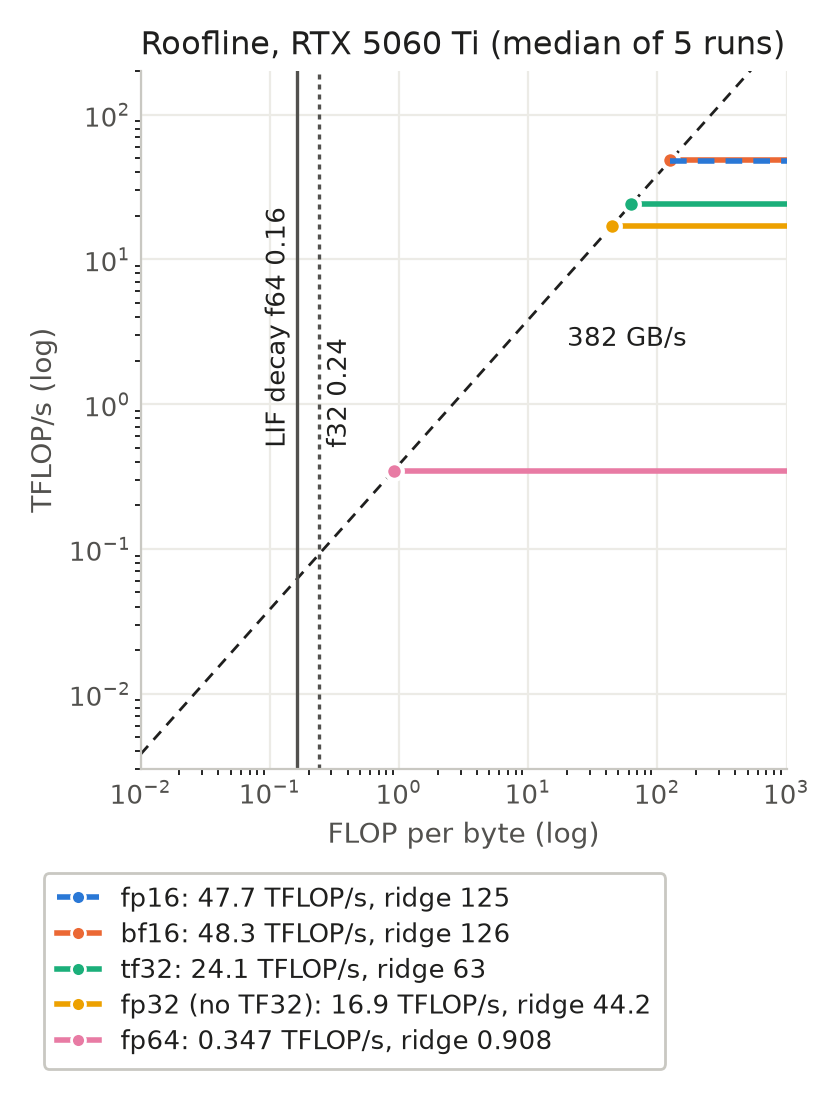
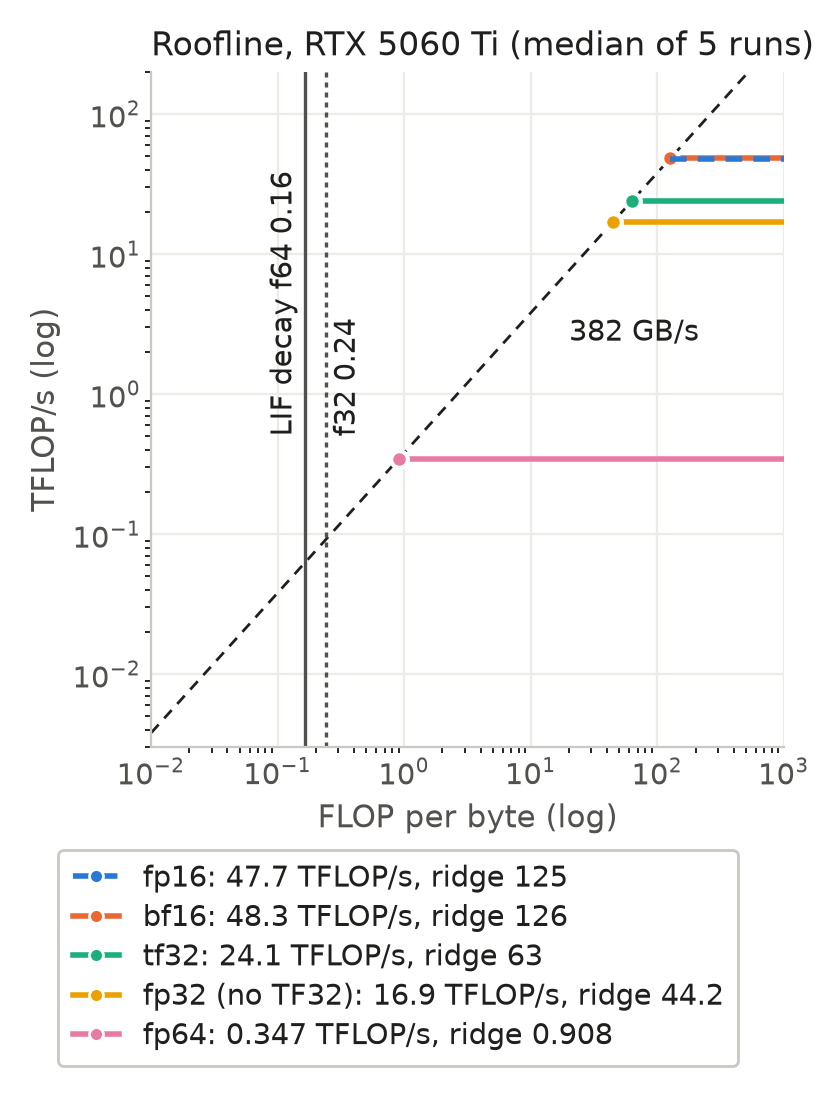
T4 roofline: larger text for a 390 px screen

diff --git a/bench/w4_roofline_plot.py b/bench/w4_roofline_plot.py
@@ -9,8 +9,8 @@ and ridge values in the legend below the axes. Vertical lines: LIF decay (sim/li
 lower bound of the traffic, float64 and float32 (the eager values are in the
 table note).
 
-Sized for a 390 px phone: 4.2 in wide at 200 dpi (840 px), text >= 9.5 pt,
-i.e. >= 11 px when the image is scaled to ~350 px.
+Sized for a 390 px phone: 4.2 in wide at 200 dpi (840 px), text >= 10.5 pt,
+i.e. >= 10.5 px when the image is scaled to ~306 px (390 px screen).
 Needs only matplotlib:
   python bench/w4_roofline_plot.py perf/results/w4/<tag>_roofline.json
 Output: perf/results/w4/roofline.png and <tag>_roofline_table.html next to the JSON.
@@ -38,7 +38,7 @@ def main():
     x0, x1 = 0.01, 1000.0
     fig, ax = plt.subplots(figsize=(4.2, 5.6), dpi=200)
     ax.plot([x0, x1], [tb * x0, tb * x1], color=INK, linewidth=1.0, linestyle=(0, (4, 3)), zorder=1)
-    ax.text(20, tb * 20 / 2.2, f'{bw:.0f} GB/s', rotation=0, fontsize=9.5, color=INK, ha='left', va='top')
+    ax.text(20, tb * 20 / 2.2, f'{bw:.0f} GB/s', rotation=0, fontsize=10.5, color=INK, ha='left', va='top')
     names = [k for k in ORDER if A.get(k, {}).get('peak_tflops')]
     handles = []
     for k in names:
@@ -50,7 +50,7 @@ def main():
         ax.plot([r], [p], 'o', ms=6, color=COL[k], mec='white', mew=1.5, zorder=4)
         handles.append(Line2D([], [], color=COL[k], linewidth=2.0, linestyle=ls, marker='o', ms=5, mec='white',
                               label=f'{LABEL[k]}: {p:.3g} TFLOP/s, ridge {r:.3g}'))
-    leg = ax.legend(handles=handles, loc='upper left', bbox_to_anchor=(-0.17, -0.13), fontsize=9.5, frameon=True, framealpha=1.0,
+    leg = ax.legend(handles=handles, loc='upper left', bbox_to_anchor=(-0.17, -0.13), fontsize=10.5, frameon=True, framealpha=1.0,
                     edgecolor='#c9c8c2', handlelength=1.6, borderpad=0.5, labelspacing=0.35)
     for t in leg.get_texts():
         t.set_color(INK)
@@ -60,21 +60,21 @@ def main():
         ax.axvline(xi, color=MUTED, linewidth=1.2, linestyle=ls, zorder=2)
     y_lab = 0.5
     ax.text(dec['float64']['fused_flop_per_byte'] / 1.12, y_lab, f"LIF decay f64 {dec['float64']['fused_flop_per_byte']:.2f}",
-            rotation=90, ha='right', va='bottom', fontsize=9.5, color=INK)
+            rotation=90, ha='right', va='bottom', fontsize=10.5, color=INK)
     ax.text(dec['float32']['fused_flop_per_byte'] * 1.12, y_lab, f"f32 {dec['float32']['fused_flop_per_byte']:.2f}",
-            rotation=90, ha='left', va='bottom', fontsize=9.5, color=INK)
+            rotation=90, ha='left', va='bottom', fontsize=10.5, color=INK)
     ax.set_xscale('log'); ax.set_yscale('log')
     ax.set_xlim(x0, x1)
     ax.set_ylim(0.003, 200)
-    ax.set_xlabel('FLOP per byte (log)', fontsize=10, color=MUTED)
-    ax.set_ylabel('TFLOP/s (log)', fontsize=10, color=MUTED)
-    ax.tick_params(labelsize=9.5, colors=MUTED, length=0)
+    ax.set_xlabel('FLOP per byte (log)', fontsize=11, color=MUTED)
+    ax.set_ylabel('TFLOP/s (log)', fontsize=11, color=MUTED)
+    ax.tick_params(labelsize=10.5, colors=MUTED, length=0)
     for s in ('top', 'right'):
         ax.spines[s].set_visible(False)
     for s in ('left', 'bottom'):
         ax.spines[s].set_color('#c9c8c2')
     ax.grid(True, which='major', color=GRID); ax.set_axisbelow(True)
-    ax.set_title(f'Roofline, RTX 5060 Ti (median of {len(res["runs"])} runs)', loc='left', fontsize=11.5, color=INK)
+    ax.set_title(f'Roofline, RTX 5060 Ti (median of {len(res["runs"])} runs)', loc='left', fontsize=12, color=INK)
     fig.tight_layout()
     png = src.parent / 'roofline.png'
     fig.savefig(png, facecolor='white')
